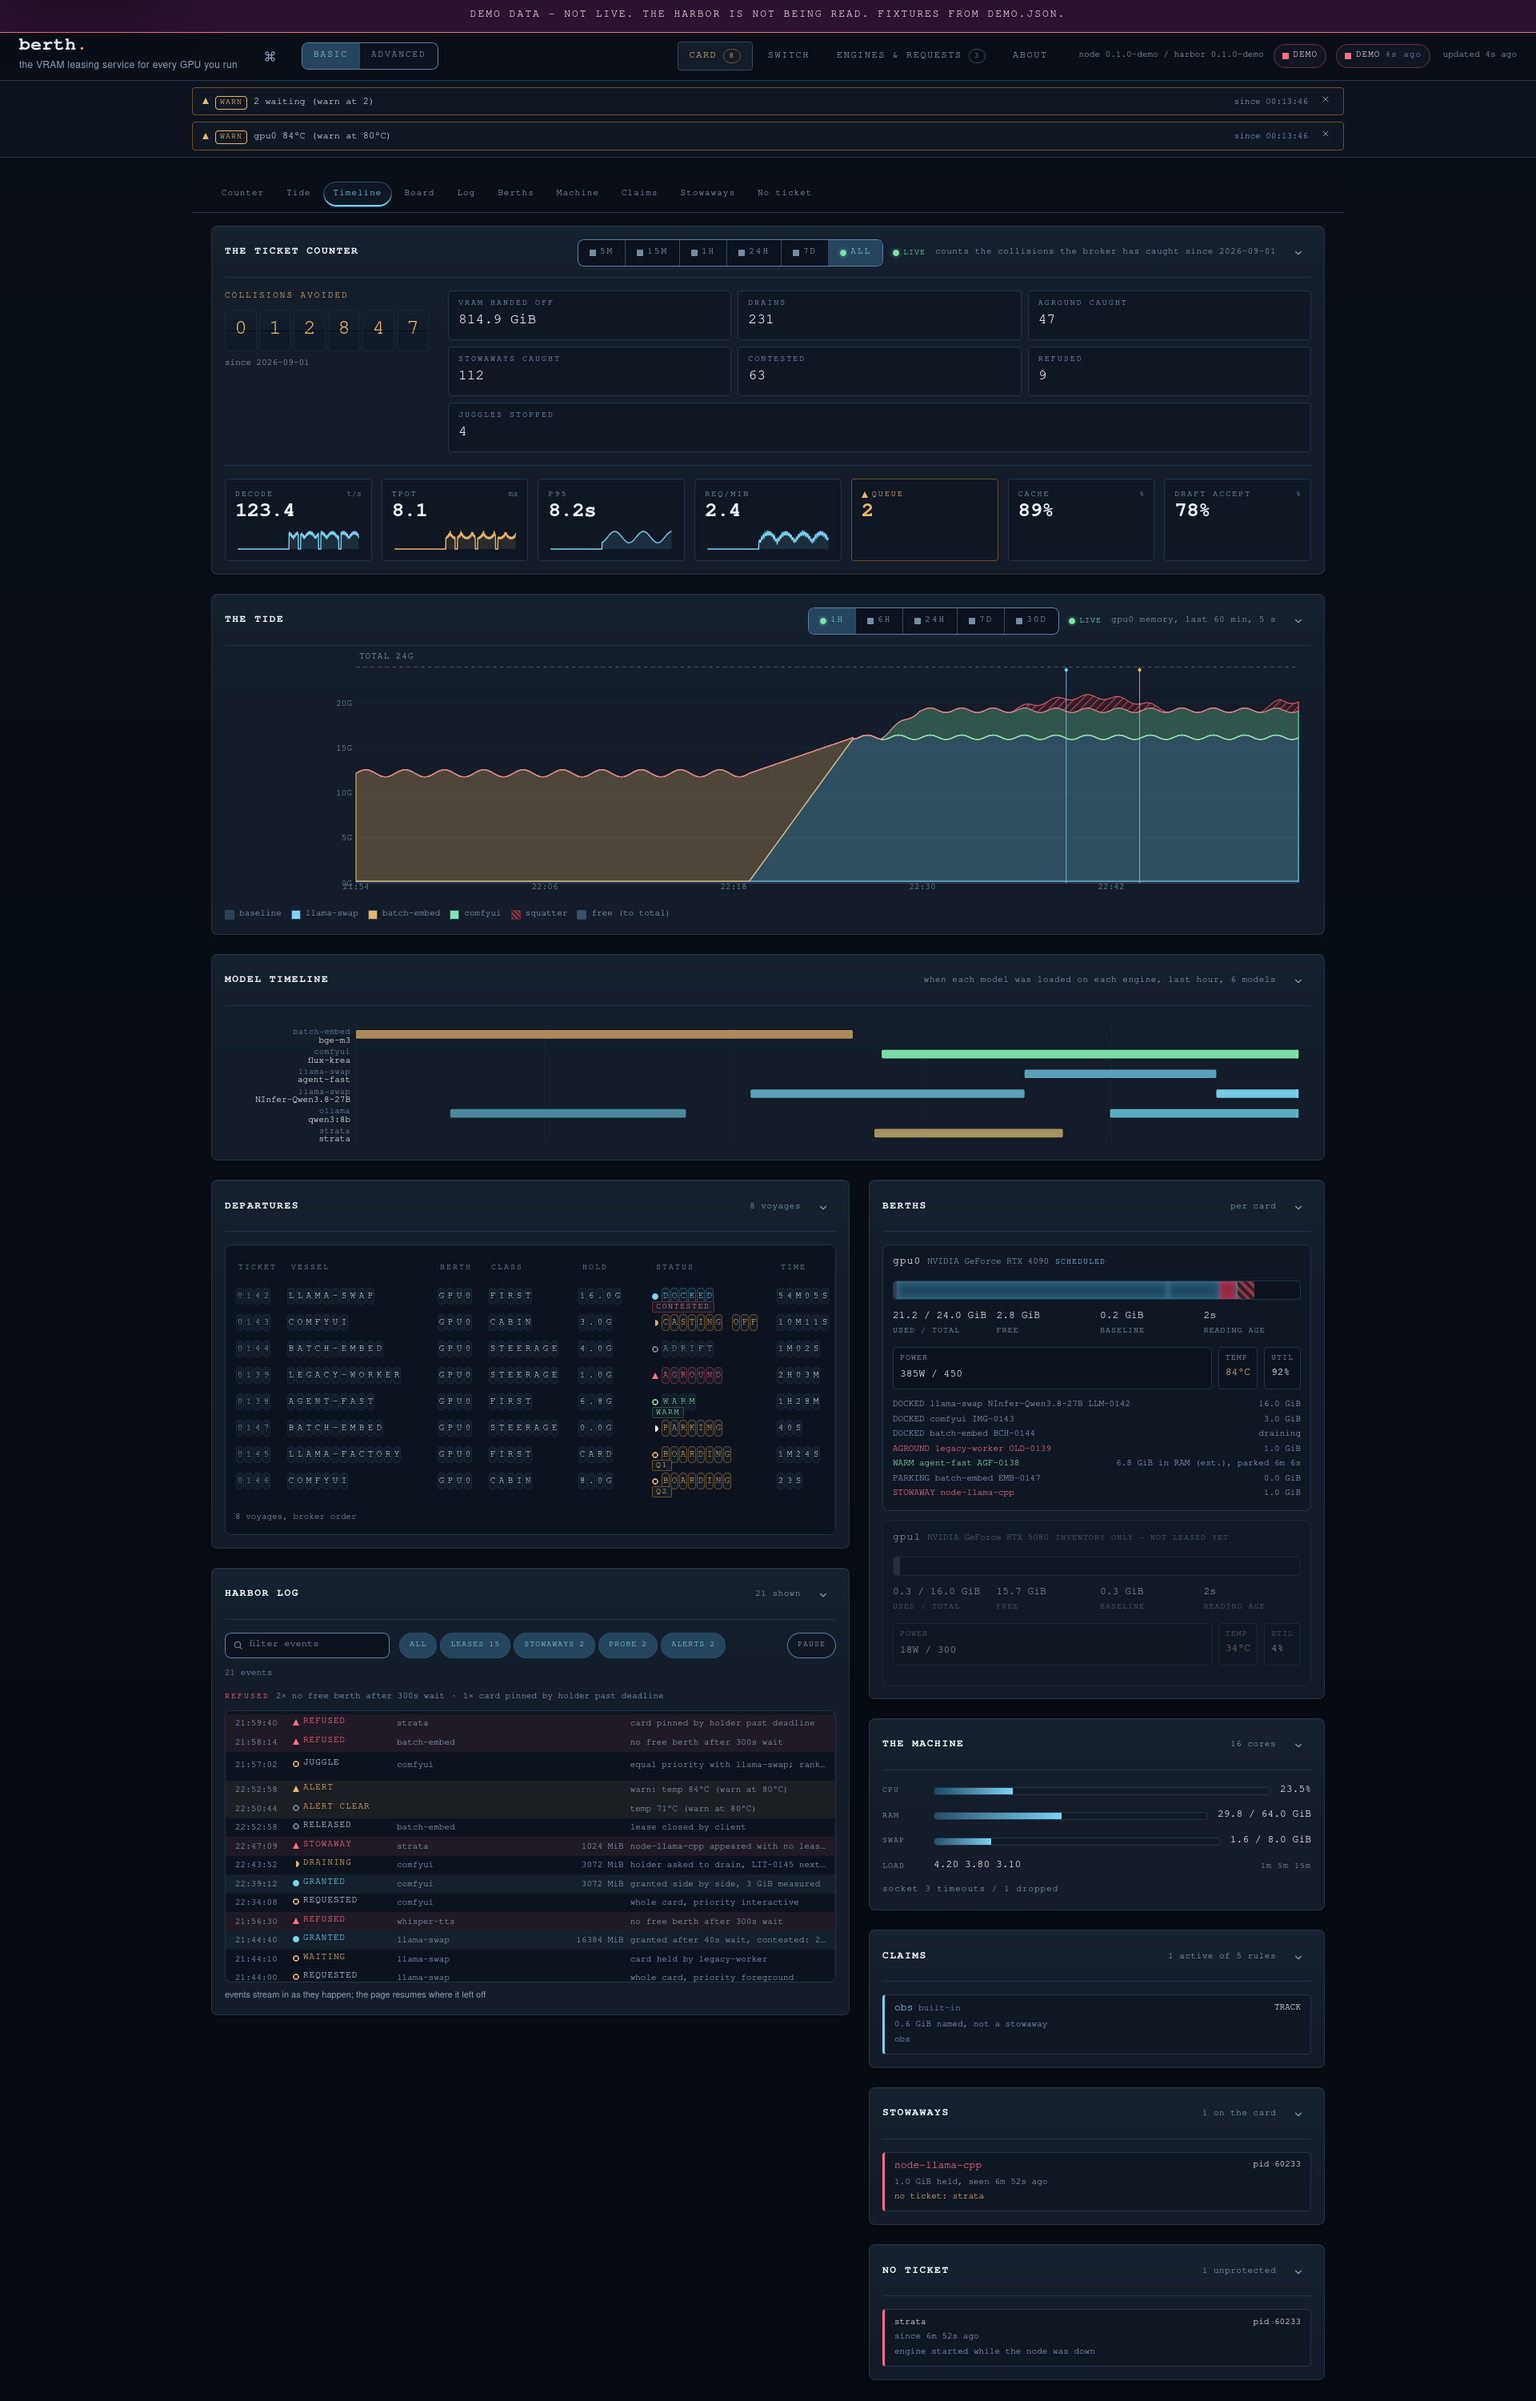
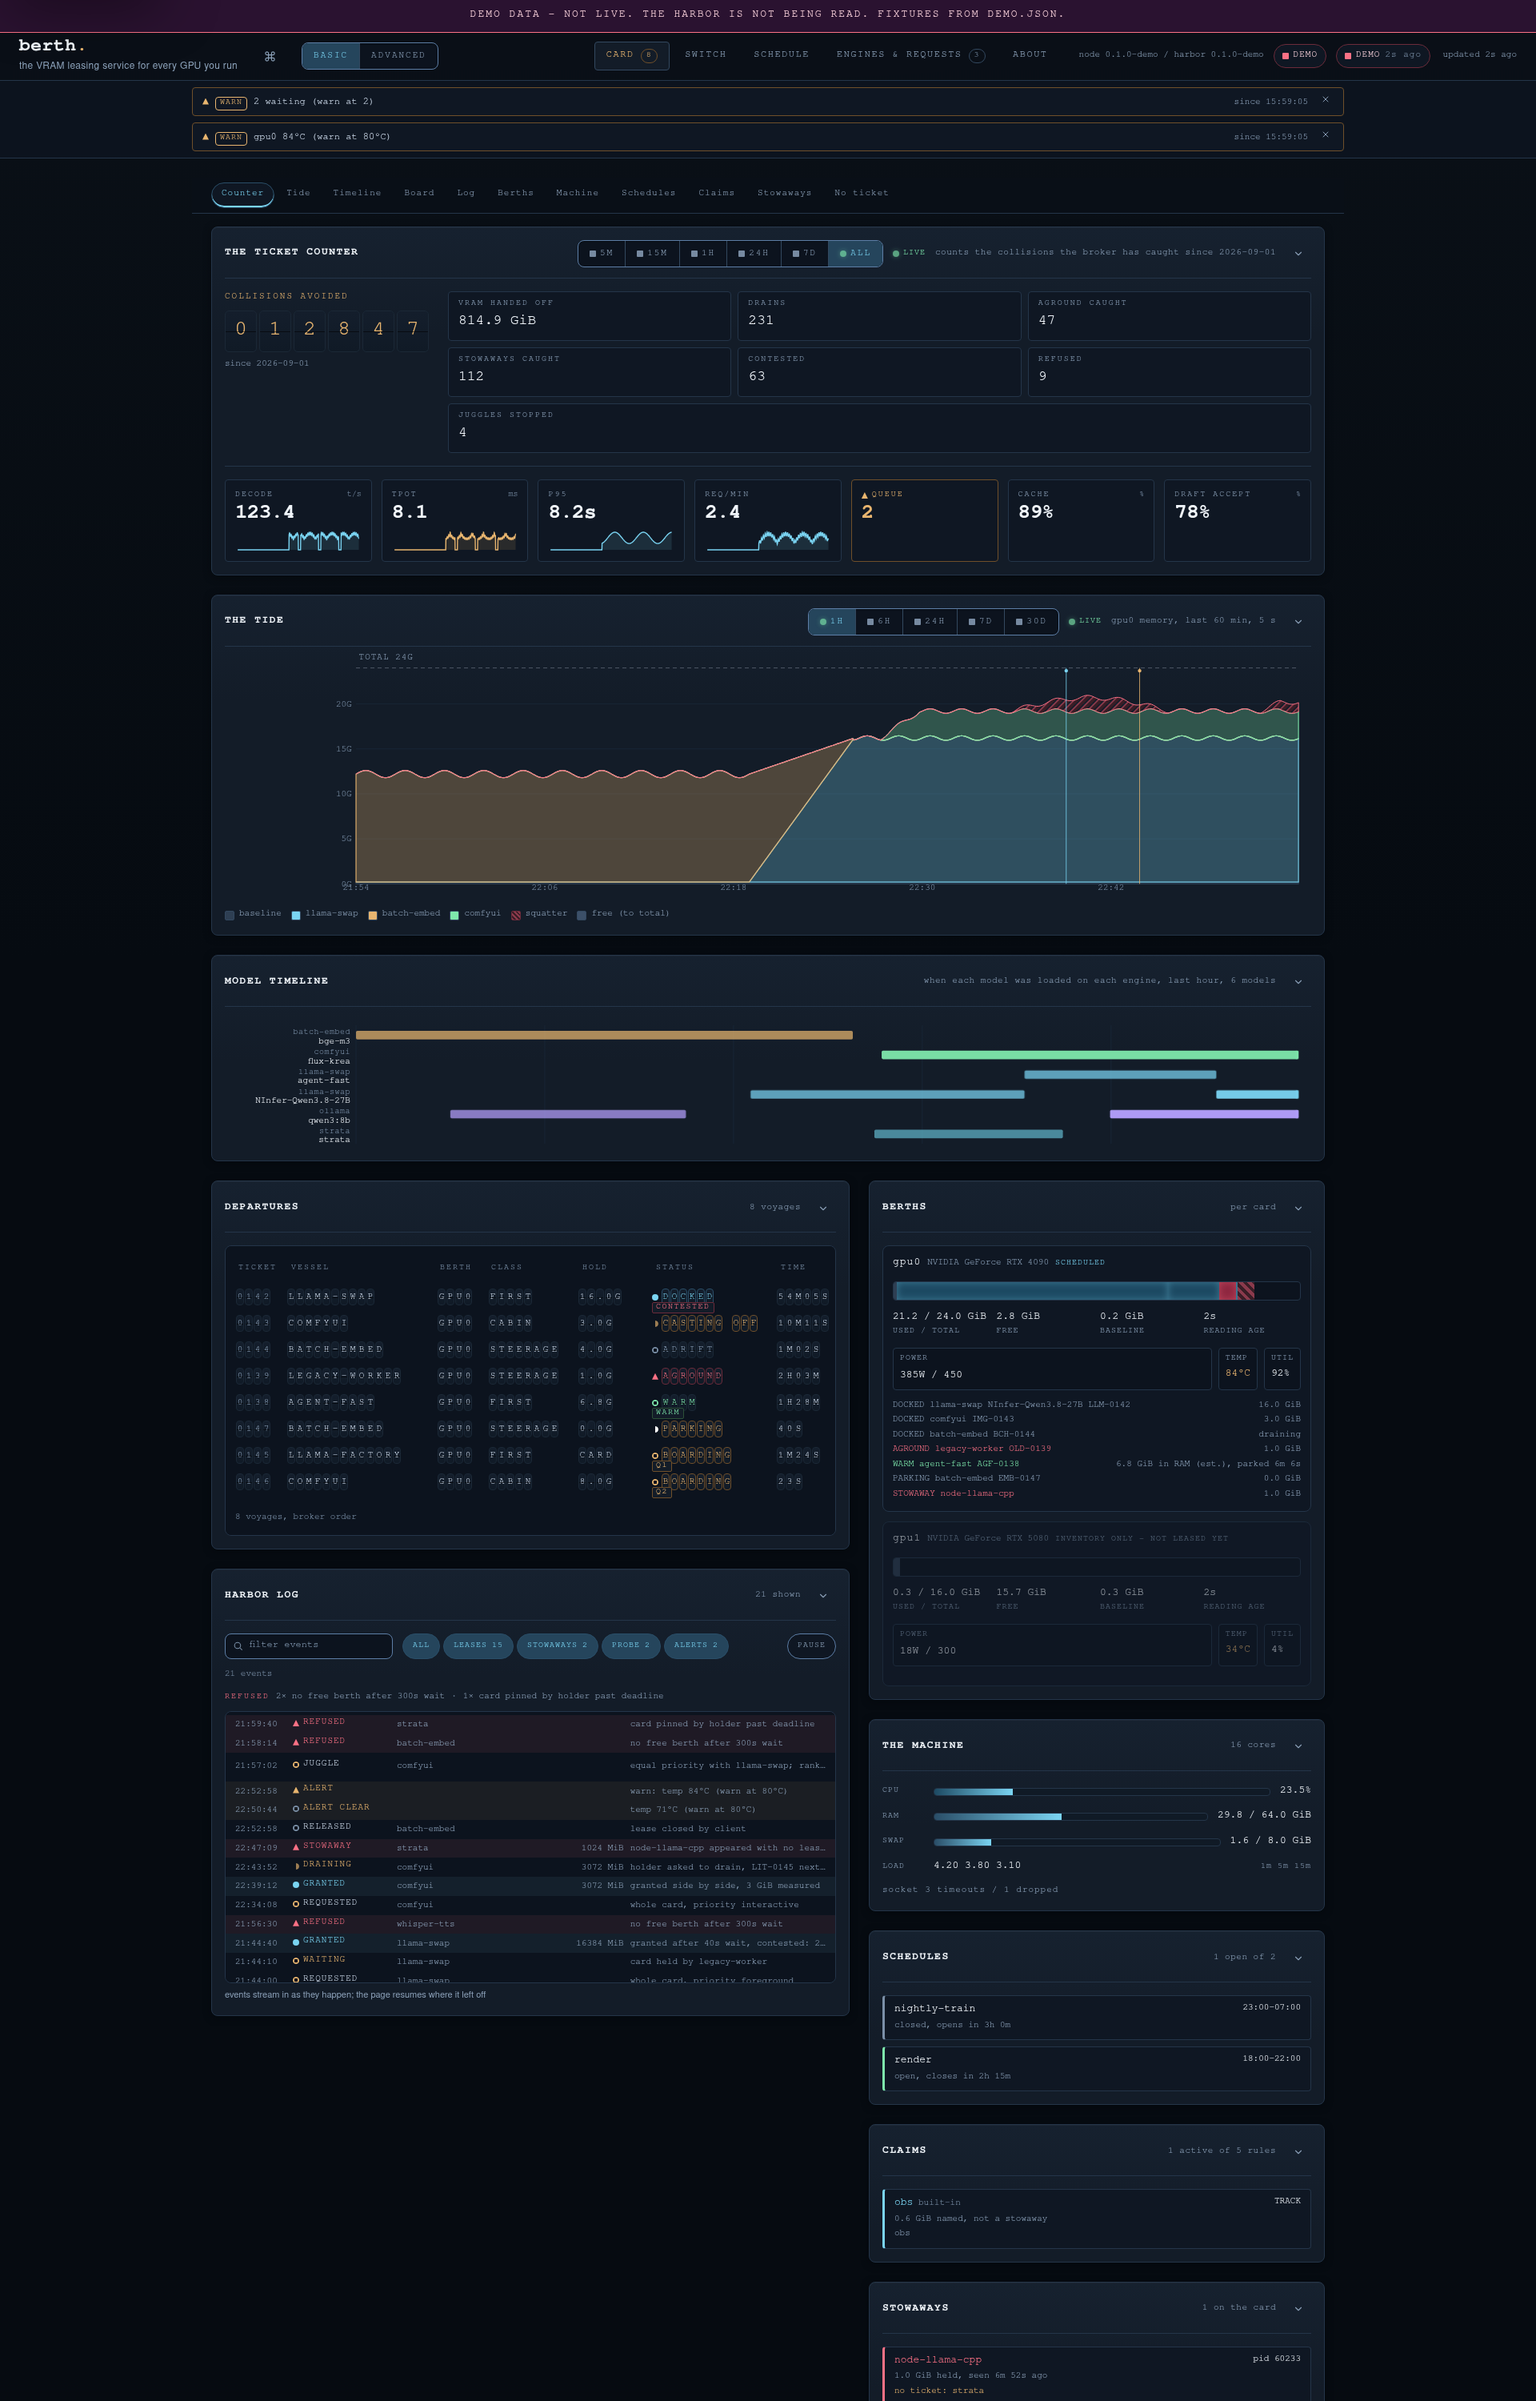
chore(release): v0.6.1
Moves the Unreleased fixes under v0.6.1: the gateway holds a request while
its engine's lease drains, a minimum turn needs a served request, and an
engine with no in-flight figure reads as unknown.

The harbor screenshots are new and the README and harbor guide show the
SCHEDULE tab. Under 340 pixels the bottom tab bar drops its letter spacing
and side padding, so SCHEDULE no longer runs into ENGINES.

diff --git a/internal/harbor/web/harbor.css b/internal/harbor/web/harbor.css
@@ -1949,6 +1949,10 @@ dialog.sheet::backdrop { background: var(--scrim); backdrop-filter: blur(3px); }
   .about-dl { grid-template-columns: 1fr; }
   .about-hero, .about-sec { padding: var(--s4); }
 }
+/* five tabs share the bottom bar: under 340px SCHEDULE is wider than its fifth */
+@media (max-width: 339px) {
+  .tab { letter-spacing: 0; padding-inline: 0; }
+}
 
 /* ---------- motion preferences and other media ---------- */
 @media (prefers-reduced-motion: reduce) {

diff --git a/docs/harbor.md b/docs/harbor.md
@@ -8,6 +8,10 @@ fixture replays: a model that ran without a lease after a daemon restart, which 
 
 <p align="center"><img src="https://raw.githubusercontent.com/T-Crypt/berth/main/assets/preview-harbor.png" alt="Berth harbor: the CARD tab with ticket counter, request KPIs, the tide of card memory by holder, and the model timeline" width="900"></p>
 
+The SCHEDULE tab: what holds the card now, the next seven days of bookings, and every booking in order.
+
+<p align="center"><img src="https://raw.githubusercontent.com/T-Crypt/berth/main/assets/preview-schedule.png" alt="Berth harbor SCHEDULE tab: NOW with the holders, the waiters and the booking in force, 7 DAYS with one track per day of bookings, windows and the live holder, and the list of bookings" width="900"></p>
+
 The Engines tab (advanced mode): the engine cards with their learned footprints as
 EST. VRAM, the library (shelf, quant, size, the cached tier, the serving engine),
 decode throughput, the token ledger, the per-model leaderboard, storage and residency.
@@ -17,7 +21,7 @@ decode throughput, the token ledger, the per-model leaderboard, storage and resi
 On a phone, the harbor fits the screen. The tabs move to a bar at the bottom and the panels stack. This is the
 CARD tab at phone width, from the same demo fixture.
 
-<p align="center"><img src="https://raw.githubusercontent.com/T-Crypt/berth/main/assets/preview-mobile.png" alt="Berth harbor at phone width: the CARD tab with the ticket counter, collisions avoided, the collision tiles and the decode and TPOT KPIs, with CARD, SWITCH, ENGINES and ABOUT in a bottom bar" width="300"></p>
+<p align="center"><img src="https://raw.githubusercontent.com/T-Crypt/berth/main/assets/preview-mobile.png" alt="Berth harbor at phone width: the CARD tab with the ticket counter and collisions avoided, with CARD, SWITCH, SCHEDULE, ENGINES and ABOUT in a bottom bar" width="300"></p>
 
 ### The harbor on your iPhone's Home Screen
 
@@ -132,7 +136,7 @@ for a phone.
   lists the last 10 events and quits. `berth service install --notify` starts it at logon.
 
 ## The harbor's views
-Everything the node collects shows in one of four tabs, and every panel answers a
+Everything the node collects shows in one of five tabs, and every panel answers a
 question an operator actually asks.
 
 **The CARD tab.**
@@ -194,6 +198,12 @@ ever opens the harbor's own origin. `berth harbor --gateway URL` names the gatew
 reads the key and never creates it. Without a key, the tab says so and offers no actions. On the gateway side,
 `berth gateway --harbor URL` redirects the gateway's old `/gui/` index and `/` to `URL/#switch`, so a bookmark of the
 engine list lands on this tab; its per-engine wake pages keep answering.
+
+**The SCHEDULE tab** answers "who has the card now, and who has it next?" NOW lists what holds each card, the
+waiters in queue order, the booking in force and the next one. 7 DAYS draws one 24-hour track per day with every
+booking to the minute (run, priority or down), each engine's window and the live holder. BOOKINGS lists every
+booking by start, on the node's clock. A paired device books by clicking an empty hour, and moves or cancels a
+booking by clicking it or its EDIT button. [Book the card](leasing.md#book-the-card) explains the bookings themselves.
 
 **The ENGINES tab.**
 - **The engine cards** answer "is this engine up and serving?" with the state the

diff --git a/README.md b/README.md
@@ -42,7 +42,7 @@ claim. When another engine holds it, Berth:
 The numbered markers on the timeline are those four steps. A process that holds VRAM without a lease
 shows up as a stowaway: Berth reports its PID and memory and leaves it running.
 
-> **Status: alpha, v0.6.0.** Runs daily on an RTX 4090 workstation beside llama-swap, NInfer,
+> **Status: alpha, v0.6.1.** Runs daily on an RTX 4090 workstation beside llama-swap, NInfer,
 > Strata, ComfyUI and games, and testers run it on Windows. The [docs](docs/README.md) cover what works and has tests; the
 > [roadmap](docs/roadmap.md) lists the phases and what is still missing.
 
@@ -270,16 +270,18 @@ which `berth service status` prints.
 
 ## Preview
 
-The screenshots show the harbor web UI with its built-in demo data: the CARD tab, the Engines tab in advanced
-mode, and the CARD tab at phone width.
+The screenshots show the harbor web UI with its built-in demo data: the CARD tab, the SCHEDULE tab, the Engines
+tab in advanced mode, and the CARD tab at phone width.
 [The harbor and telemetry](docs/harbor.md) explains every panel and shows how to add the harbor to an
 iPhone's Home Screen.
 
 <p align="center"><img src="assets/preview-harbor.png" alt="Berth harbor: the CARD tab with ticket counter, request KPIs, the tide of card memory by holder, and the model timeline" width="900"></p>
 
+<p align="center"><img src="assets/preview-schedule.png" alt="Berth harbor SCHEDULE tab: NOW with the holders, the waiters and the booking in force, 7 DAYS with one track per day of bookings, windows and the live holder, and the list of bookings" width="900"></p>
+
 <p align="center"><img src="assets/preview-requests.png" alt="Berth harbor Engines tab, advanced mode: decode throughput per engine, the token ledger, the per-model leaderboard, storage and residency" width="900"></p>
 
-<p align="center"><img src="assets/preview-mobile.png" alt="Berth harbor at phone width: the CARD tab with the ticket counter, collisions avoided, the collision tiles and the decode and TPOT KPIs, with CARD, SWITCH, ENGINES and ABOUT in a bottom bar" width="300"></p>
+<p align="center"><img src="assets/preview-mobile.png" alt="Berth harbor at phone width: the CARD tab with the ticket counter and collisions avoided, with CARD, SWITCH, SCHEDULE, ENGINES and ABOUT in a bottom bar" width="300"></p>
 
 ## Install
 

diff --git a/docs/roadmap.md b/docs/roadmap.md
@@ -149,6 +149,15 @@ v0.6.0 was tagged first as `v0.6.0-rc.1`.
   turn it was in, and a drain no longer stops an engine that is still resuming
   ([#275](https://github.com/T-Crypt/berth/issues/275)).
 
+## Shipped: v0.6.1, cleaner handoffs (2026-11-15)
+
+- **No request into a draining engine.** The gateway holds a request while its engine's lease drains, parks or
+  releases, instead of sending it to an engine that is stopping.
+- **A minimum turn needs a request.** An engine woken by a health probe or a warm-up no longer keeps the card for
+  its full `--min-turn` while a real request waits.
+- **Busy or unknown.** An engine that reports no in-flight figure reads as unknown, not idle, so a juggle does not
+  hand its card over mid-request.
+
 ## Next: v0.6.x
 
 - **A warmth ladder.** An engine steps down from live to parked to stopped by idle time and the next booking, and

diff --git a/CHANGELOG.md b/CHANGELOG.md
@@ -6,6 +6,8 @@ has a matching GitHub release whose body comes from its section below.
 
 ## [Unreleased]
 
+## [v0.6.1] - 2026-11-15
+
 ### Fixed
 
 - The gateway no longer sends a request to an engine whose lease is draining, parking or releasing. It holds the
@@ -18,6 +20,12 @@ has a matching GitHub release whose body comes from its section below.
   instead of idle. Before, an NInfer build without `/slots`, or Ollama, read idle while it served, and a juggle
   handed its card over as if no request were running. `berth status --format json` shows the new
   `in_flight_reported` field per engine.
+- On a phone narrower than 340 pixels, the SCHEDULE label in the harbor's bottom tab bar no longer runs into the
+  labels beside it.
+
+### Documentation
+
+- The README and the harbor guide show the SCHEDULE tab, and the harbor screenshots are new.
 
 ## [v0.6.0] - 2026-11-14
 
